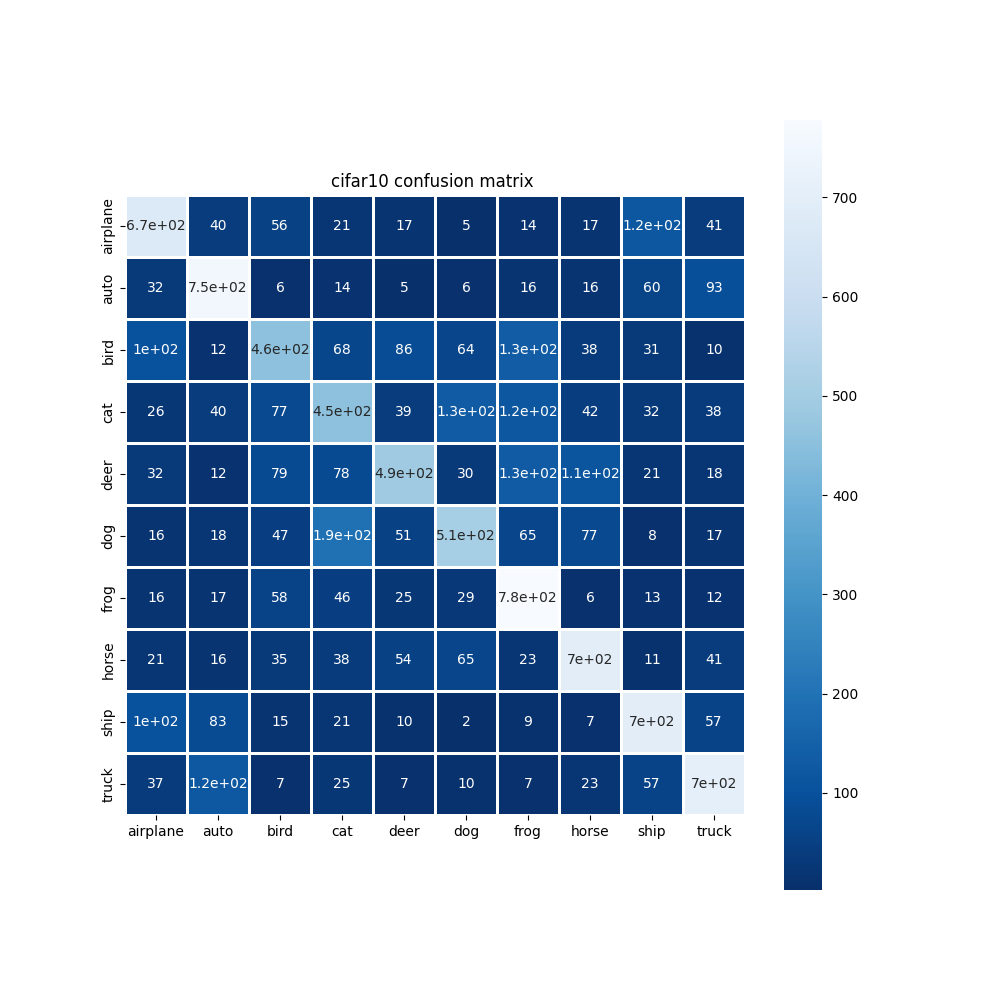
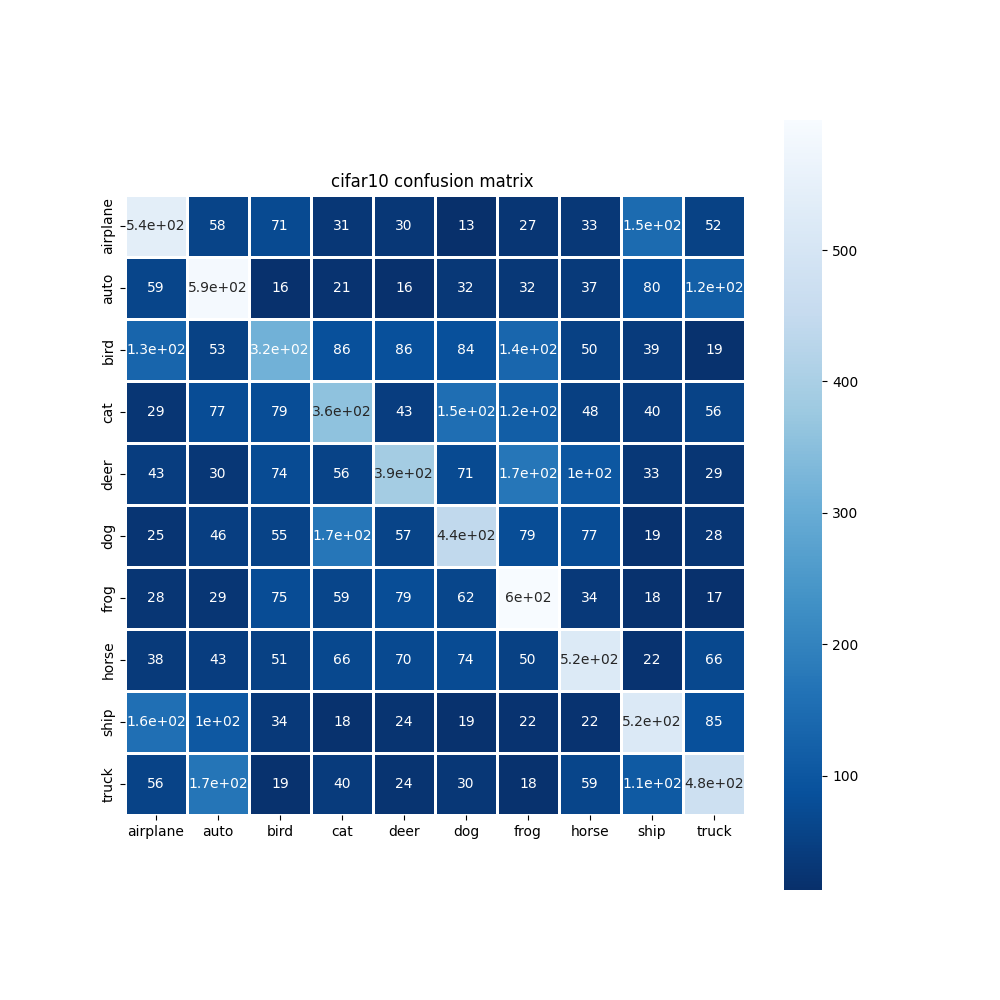
test

diff --git a/src/FlowerClient.py b/src/FlowerClient.py
@@ -1,7 +1,8 @@
 import flwr as fl
 from torch.optim import lr_scheduler
 from torch.utils.data import DataLoader
-from torchvision.transforms import Compose, RandomHorizontalFlip, RandomCrop, ToTensor, Normalize
+from torchvision.transforms import Compose, RandomHorizontalFlip, RandomCrop, ToTensor, Normalize, Resize, \
+    RandomResizedCrop
 from torchvision.utils import make_grid
 
 from Utils import Utils
@@ -26,8 +27,8 @@ class FlowerClient(fl.client.NumPyClient):
         )
 
         self.model = self.utils.get_model()
-        self.epochs = 20 if self.utils.dataset_name != 'mnist' else 10
-        self.batch_size = 86
+        self.epochs = 15 if self.utils.dataset_name != 'mnist' else 5
+        self.batch_size = 128
         self.train_data: Subset
         with open(os.path.join(f"../data/partitions/{self.utils.dataset_name}",
                                f"partition_{self.cid}.pickle"), "rb") as f:
@@ -38,10 +39,12 @@ class FlowerClient(fl.client.NumPyClient):
         # self.train_data, self.test_data = torch.utils.data.random_split(self.client_partition_data,
         #                                                                 [train_data_size, test_data_size])
 
-        stats = ((0.5), (0.5)) if self.utils.dataset_name == 'mnist' else ((0.5, 0.5, 0.5), (0.5, 0.5, 0.5))
+        stats = ((0.5), (0.5)) if self.utils.dataset_name == 'mnist' else ((0.4914, 0.4822, 0.4465), (0.2023, 0.2154, 0.229))
         train_transform = Compose([
             RandomHorizontalFlip(),
-            RandomCrop(28 if self.utils.dataset_name == 'mnist' else 32, padding=4, padding_mode="reflect"),
+            RandomResizedCrop(224),
+            # RandomCrop(28 if self.utils.dataset_name == 'mnist' else 32, padding=4, padding_mode="reflect"),
+            Resize((224, 224)),
             ToTensor(),
             Normalize(*stats),
 
@@ -51,6 +54,8 @@ class FlowerClient(fl.client.NumPyClient):
         # self.steps_for_epoch = len(self.x_train) // self.batch_size
         # self.verbose = 0
 
+
+    def load_data_on_memory(self):
         self.train_data_loader = DataLoader(self.train_data, batch_size=self.batch_size, shuffle=True)
         self.test_data_loader = DataLoader(self.utils.test_data, batch_size=self.batch_size)
         # for batch in self.train_data_loader:
@@ -62,10 +67,8 @@ class FlowerClient(fl.client.NumPyClient):
         #     ax.imshow(make_grid(images[:20], nrow=5).permute(1, 2, 0))
         #     break
         # plt.show()
-
-        # TODO decomment
-        # if self.utils.poisoning and (self.cid in Utils.POISONERS_CLIENTS_CID):
-        #     self.run_poisoning()
+        if self.utils.poisoning and (self.cid in Utils.POISONERS_CLIENTS_CID):
+            self.run_poisoning()
 
     def run_poisoning(self):
         self.utils.printLog(f'client {self.cid} starting poisoning')
@@ -90,6 +93,7 @@ class FlowerClient(fl.client.NumPyClient):
 
     def fit(self, parameters, config):
         """Train parameters on the locally held training set."""
+        self.load_data_on_memory()
 
         # Update local model parameters
         self.set_parameters(parameters)
@@ -110,9 +114,11 @@ class FlowerClient(fl.client.NumPyClient):
         print("Starting training...")
         self.model.to(self.device)  # move model to GPU if available
         criterion = torch.nn.CrossEntropyLoss().to(self.device)
-        optimizer = torch.optim.SGD(
-            self.model.parameters(), lr=0.001, momentum=0.9, weight_decay=1e-4
-        )
+        # optimizer = torch.optim.SGD(
+        #     self.model.parameters(), lr=0.001, momentum=0.9, weight_decay=1e-4
+        # )
+
+        optimizer = torch.optim.Adam(self.model.classifier.parameters())
         # exp_lr_scheduler = lr_scheduler.StepLR(optimizer, step_size=7, gamma=0.1)
 
         self.model.train()

diff --git a/src/Utils.py b/src/Utils.py
@@ -2,7 +2,7 @@ import pickle
 import os
 
 import torch
-from torchvision.transforms import ToTensor, Normalize, Compose
+from torchvision.transforms import ToTensor, Normalize, Compose, Resize
 from torchvision.transforms import RandomHorizontalFlip, RandomCrop
 from torchvision.models import efficientnet_b0, resnet50, resnet18
 import warnings
@@ -94,6 +94,7 @@ class Utils:
         # ])
 
         test_transform = Compose([
+            Resize((224, 224)),
             ToTensor(),
             Normalize(*stats)
         ])
@@ -174,20 +175,23 @@ class Utils:
         for param in efficientnet.parameters():
             param.requires_grad = False
 
-        # for layer in efficientnet.children():
-        #     print(layer)
-        layer_to_unfreeze = [param  for name, param  in efficientnet.named_parameters() if "Conv2d" in name]
-        layer_to_unfreeze = layer_to_unfreeze[-4:]
-        print(f"Number of layers: {len(layer_to_unfreeze)}")
-        print(layer_to_unfreeze)
-        for layer in layer_to_unfreeze:
-            for param in layer.parameters():
-                param.requires_grad = True
+        efficientnet.classifier = torch.nn.Sequential(
+            # torch.nn.Dropout(p=0.2, inplace=True),
+            torch.nn.Linear(1280, efficientnet.classifier[1].in_features),
+            torch.nn.ReLU(inplace=True),
+            torch.nn.Linear(efficientnet.classifier[1].in_features, self.classes_number))
+
+        print(efficientnet.classifier)
+
+        # efficientnet.classifier[1] = torch.nn.Sequential(
+        #     torch.nn.Linear(2048, 128),
+        #     torch.nn.ReLU(inplace=True),
+        #     torch.nn.Linear(128, 2))
 
         # Re-init output linear layer with the right number of classes
-        efficentnet_classes_classes = efficientnet.classifier[1].in_features
-        if self.classes_number != efficentnet_classes_classes:
-            efficientnet.classifier[1] = torch.nn.Linear(efficentnet_classes_classes, self.classes_number)
+        # efficentnet_classes_classes = efficientnet.classifier[1].in_features
+        # if self.classes_number != efficentnet_classes_classes:
+        #     efficientnet.classifier[1] = torch.nn.Linear(efficentnet_classes_classes, self.classes_number)
         return efficientnet
 
     @classmethod

diff --git a/src/main.py b/src/main.py
@@ -133,7 +133,7 @@ import logging
 
 
 DEFAULT_FORMATTER = logging.Formatter(
-"%(levelname)s %(name)s %(asctime)s | %(filename)s:%(lineno)d | %(message)s"
+    "%(levelname)s %(name)s %(asctime)s | %(filename)s:%(lineno)d | %(message)s"
 )
 fl.common.logger.configure(identifier="executionLog", filename="../log.txt")
 
@@ -156,7 +156,3 @@ if __name__ == "__main__":
     time.sleep(5)
     for i in range(utils.CLIENTS_NUM):
         clientThread = multiprocessing.Process(target=start_client, args=[i]).start()
-
-
-    # server=Server.Server(utils)
-    # server.start_simulation()
